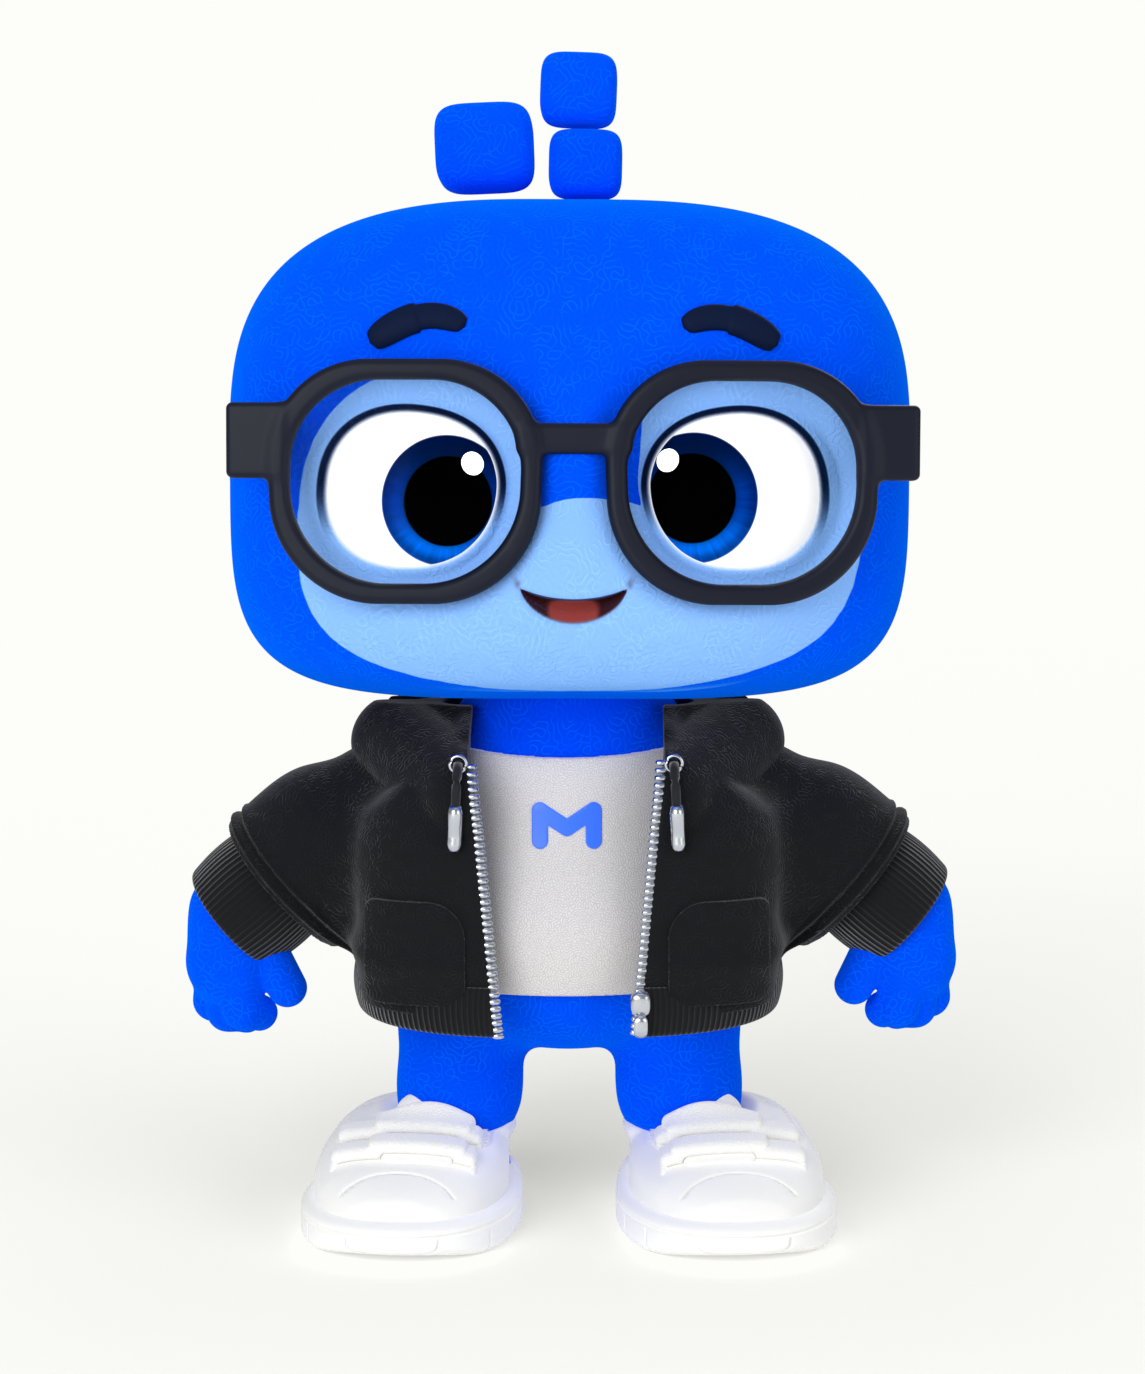
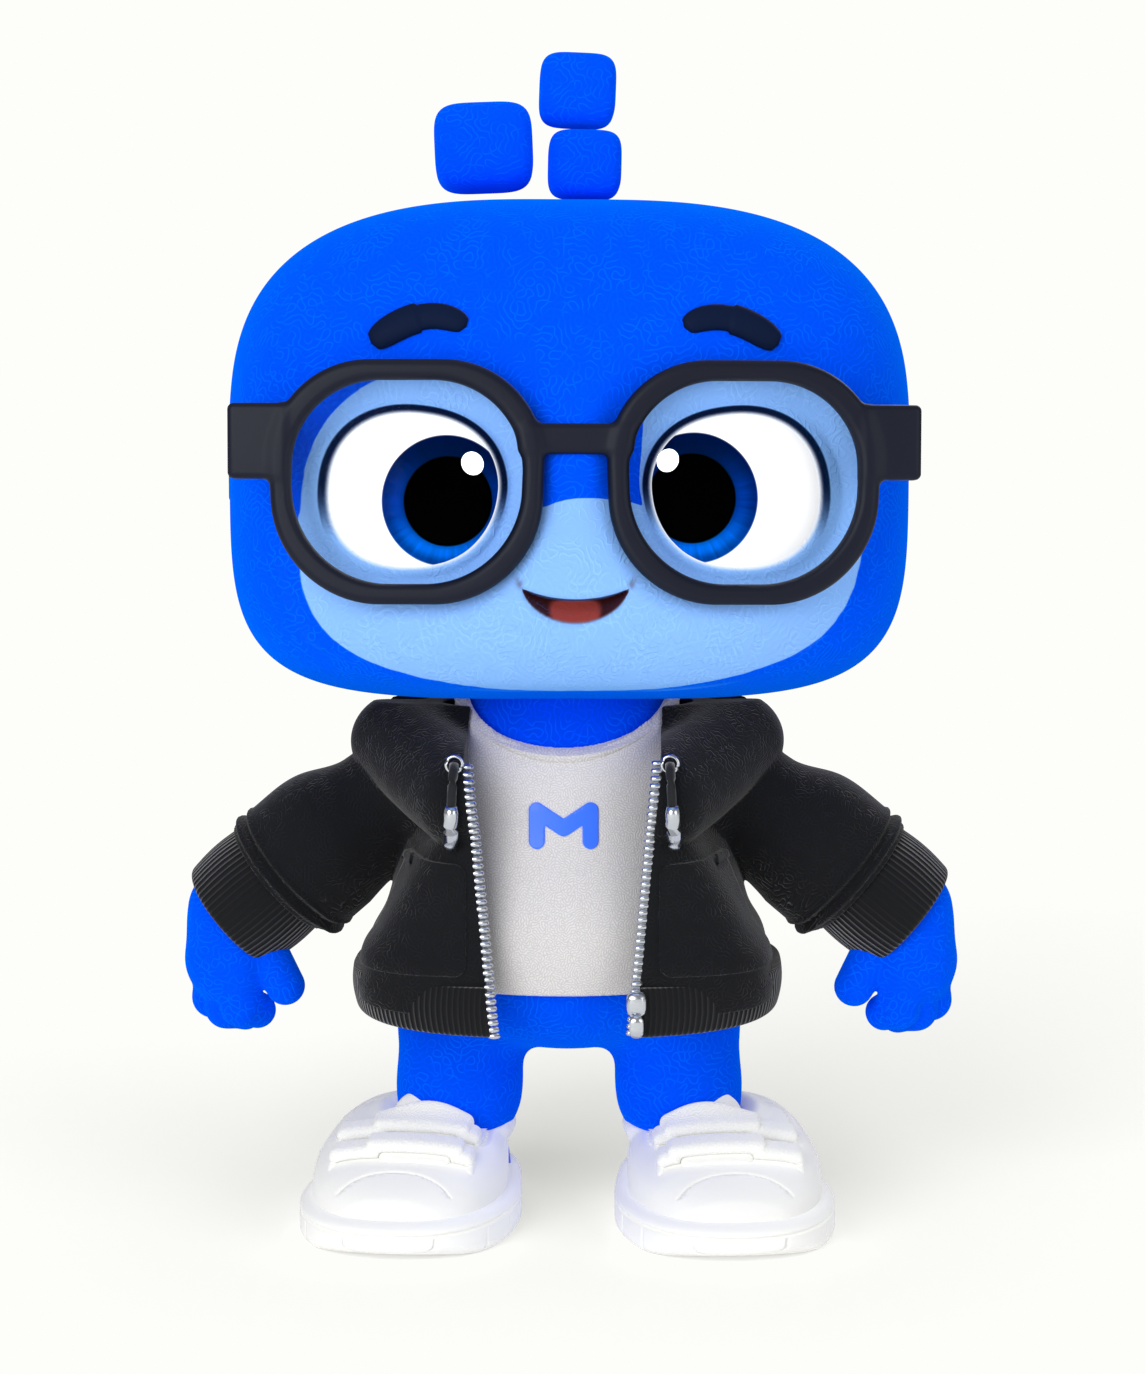
Reference look recaptured on the round 10 model (lens and corneas hidden, eye measured; the eye keeps a smooth grey matcap); first round 10 view renders
Claude-Session: https://claude.ai/code/session_01Cwu8931f4rGuiLBWDxSHcw

diff --git a/scripts/build_look.py b/scripts/build_look.py
@@ -20,6 +20,10 @@ ROOT = os.path.dirname(os.path.dirname(os.path.abspath(__file__)))
 LO, HI = -6.0, 4.0
 MIN_SAMPLES = 1500
 COLS = 6
+# the eye mixes white sclera, blue iris and black pupil under one material and
+# its iris always faces the camera: its measured ratio is blotchy and coloured
+# (rainbow fringes on the sclera). It keeps only the smooth part, in grey.
+SMOOTH_GREY = {'M_Eye'}
 
 
 def fill(G, w):
@@ -44,7 +48,7 @@ def sh_basis(n):
                      x * (5 * z * z - 1), z * (x * x - y * y), x * (x * x - 3 * y * y)], 1)
 
 
-def smooth_fit(G, n, N):
+def smooth_fit(G, n, N, residual=True):
     """Lighting of a product shot is smooth over the normals: least-squares
     spherical harmonics (band 3) in log space, plus the measured residual where
     the photos give many samples (keeps sharper features such as highlights)."""
@@ -64,6 +68,8 @@ def smooth_fit(G, n, N):
         coef = np.linalg.solve(A, Wb.T @ G.reshape(-1, 3)[sel, c])
         out[:, c] = B @ coef
     F = out.reshape(N, N, 3)
+    if not residual:
+        return F
     res = np.where((n > 0)[..., None], G - F, 0.0)
     num = np.stack([ndi.gaussian_filter(res[..., c] * np.minimum(n / 20.0, 1.0), 2.0) for c in range(3)], -1)
     den = ndi.gaussian_filter(np.minimum(n / 20.0, 1.0), 2.0)[..., None]
@@ -83,7 +89,11 @@ def main():
             print(f'{name:16s} {int(n.sum()):8d} samples  (too few, kept physically shaded)')
             continue
         G = np.clip(np.array(m['mean'], float).reshape(N, N, 3), LO, HI)
-        F = np.clip(smooth_fit(G, n, N), LO, HI)
+        if name in SMOOTH_GREY:
+            F = smooth_fit(G, n, N, residual=False)
+            F = np.clip(np.repeat(F.mean(-1, keepdims=True), 3, -1), LO, HI)
+        else:
+            F = np.clip(smooth_fit(G, n, N), LO, HI)
         enc = np.clip((F - LO) / (HI - LO), 0, 1)
         tiles.append((name, (enc[::-1] * 255 + 0.5).astype(np.uint8)))  # image rows top-down
         info[name] = {'tile': len(tiles) - 1, 'samples': int(n.sum())}
